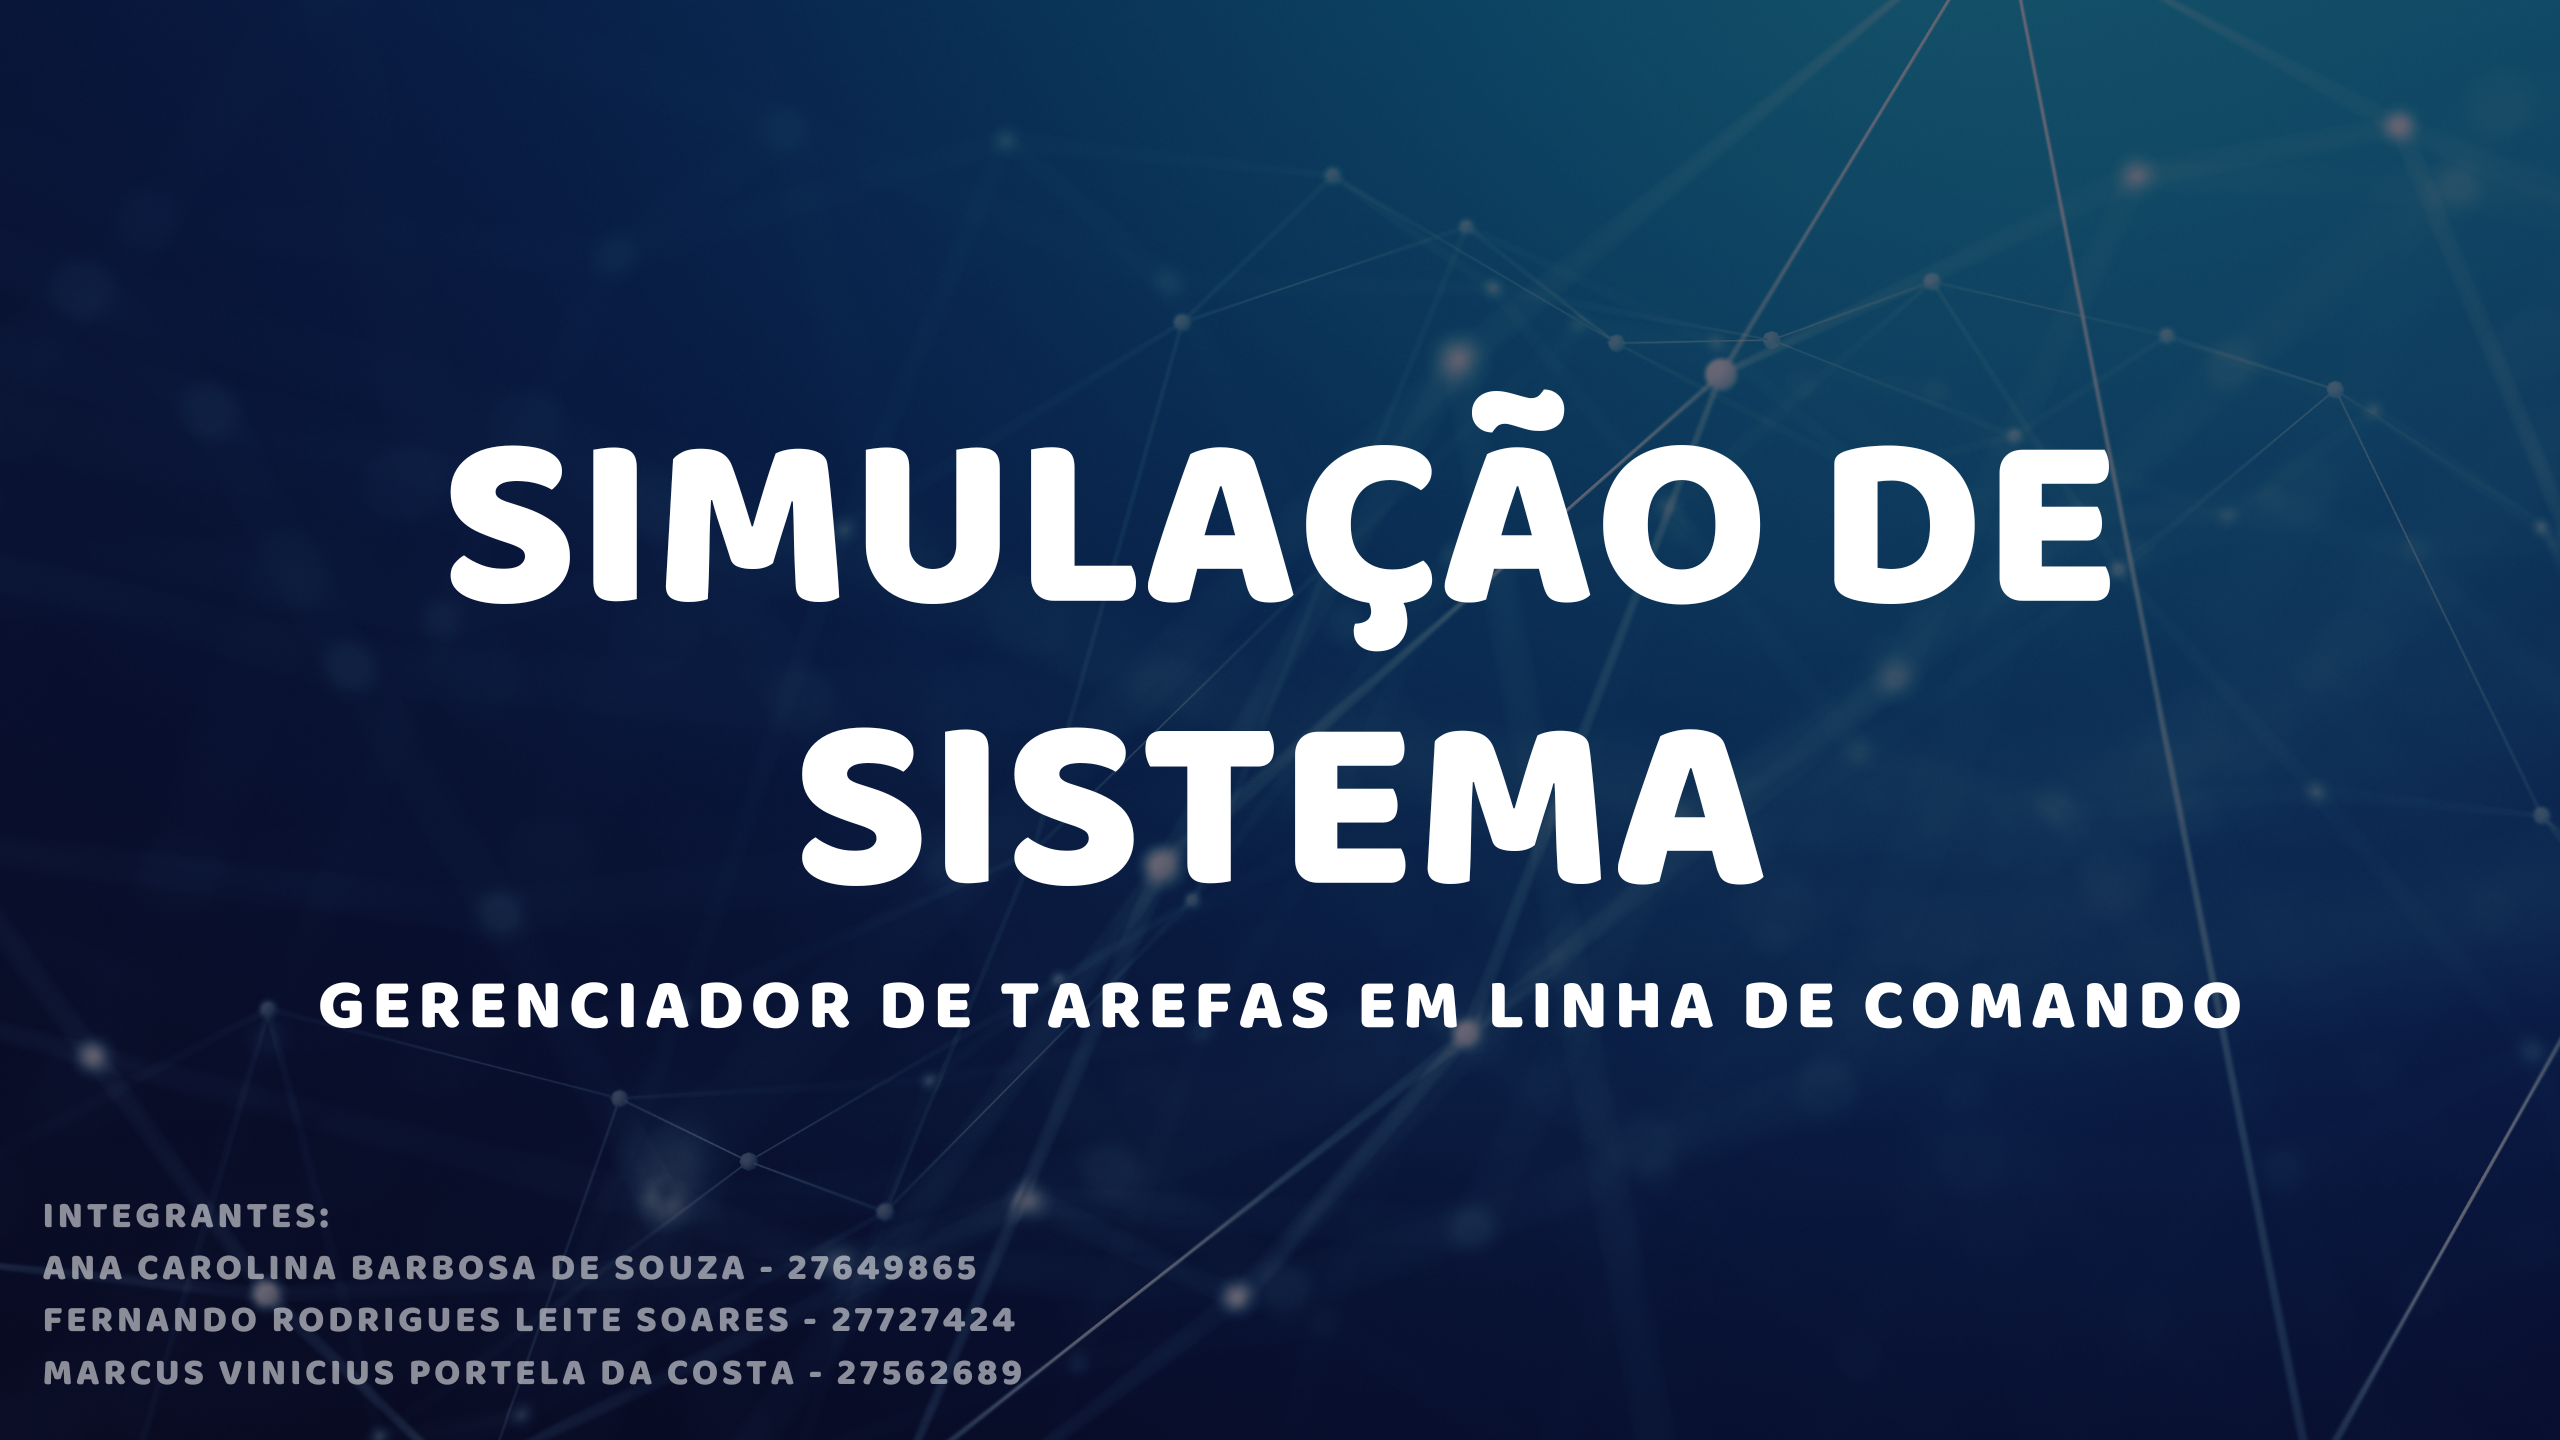
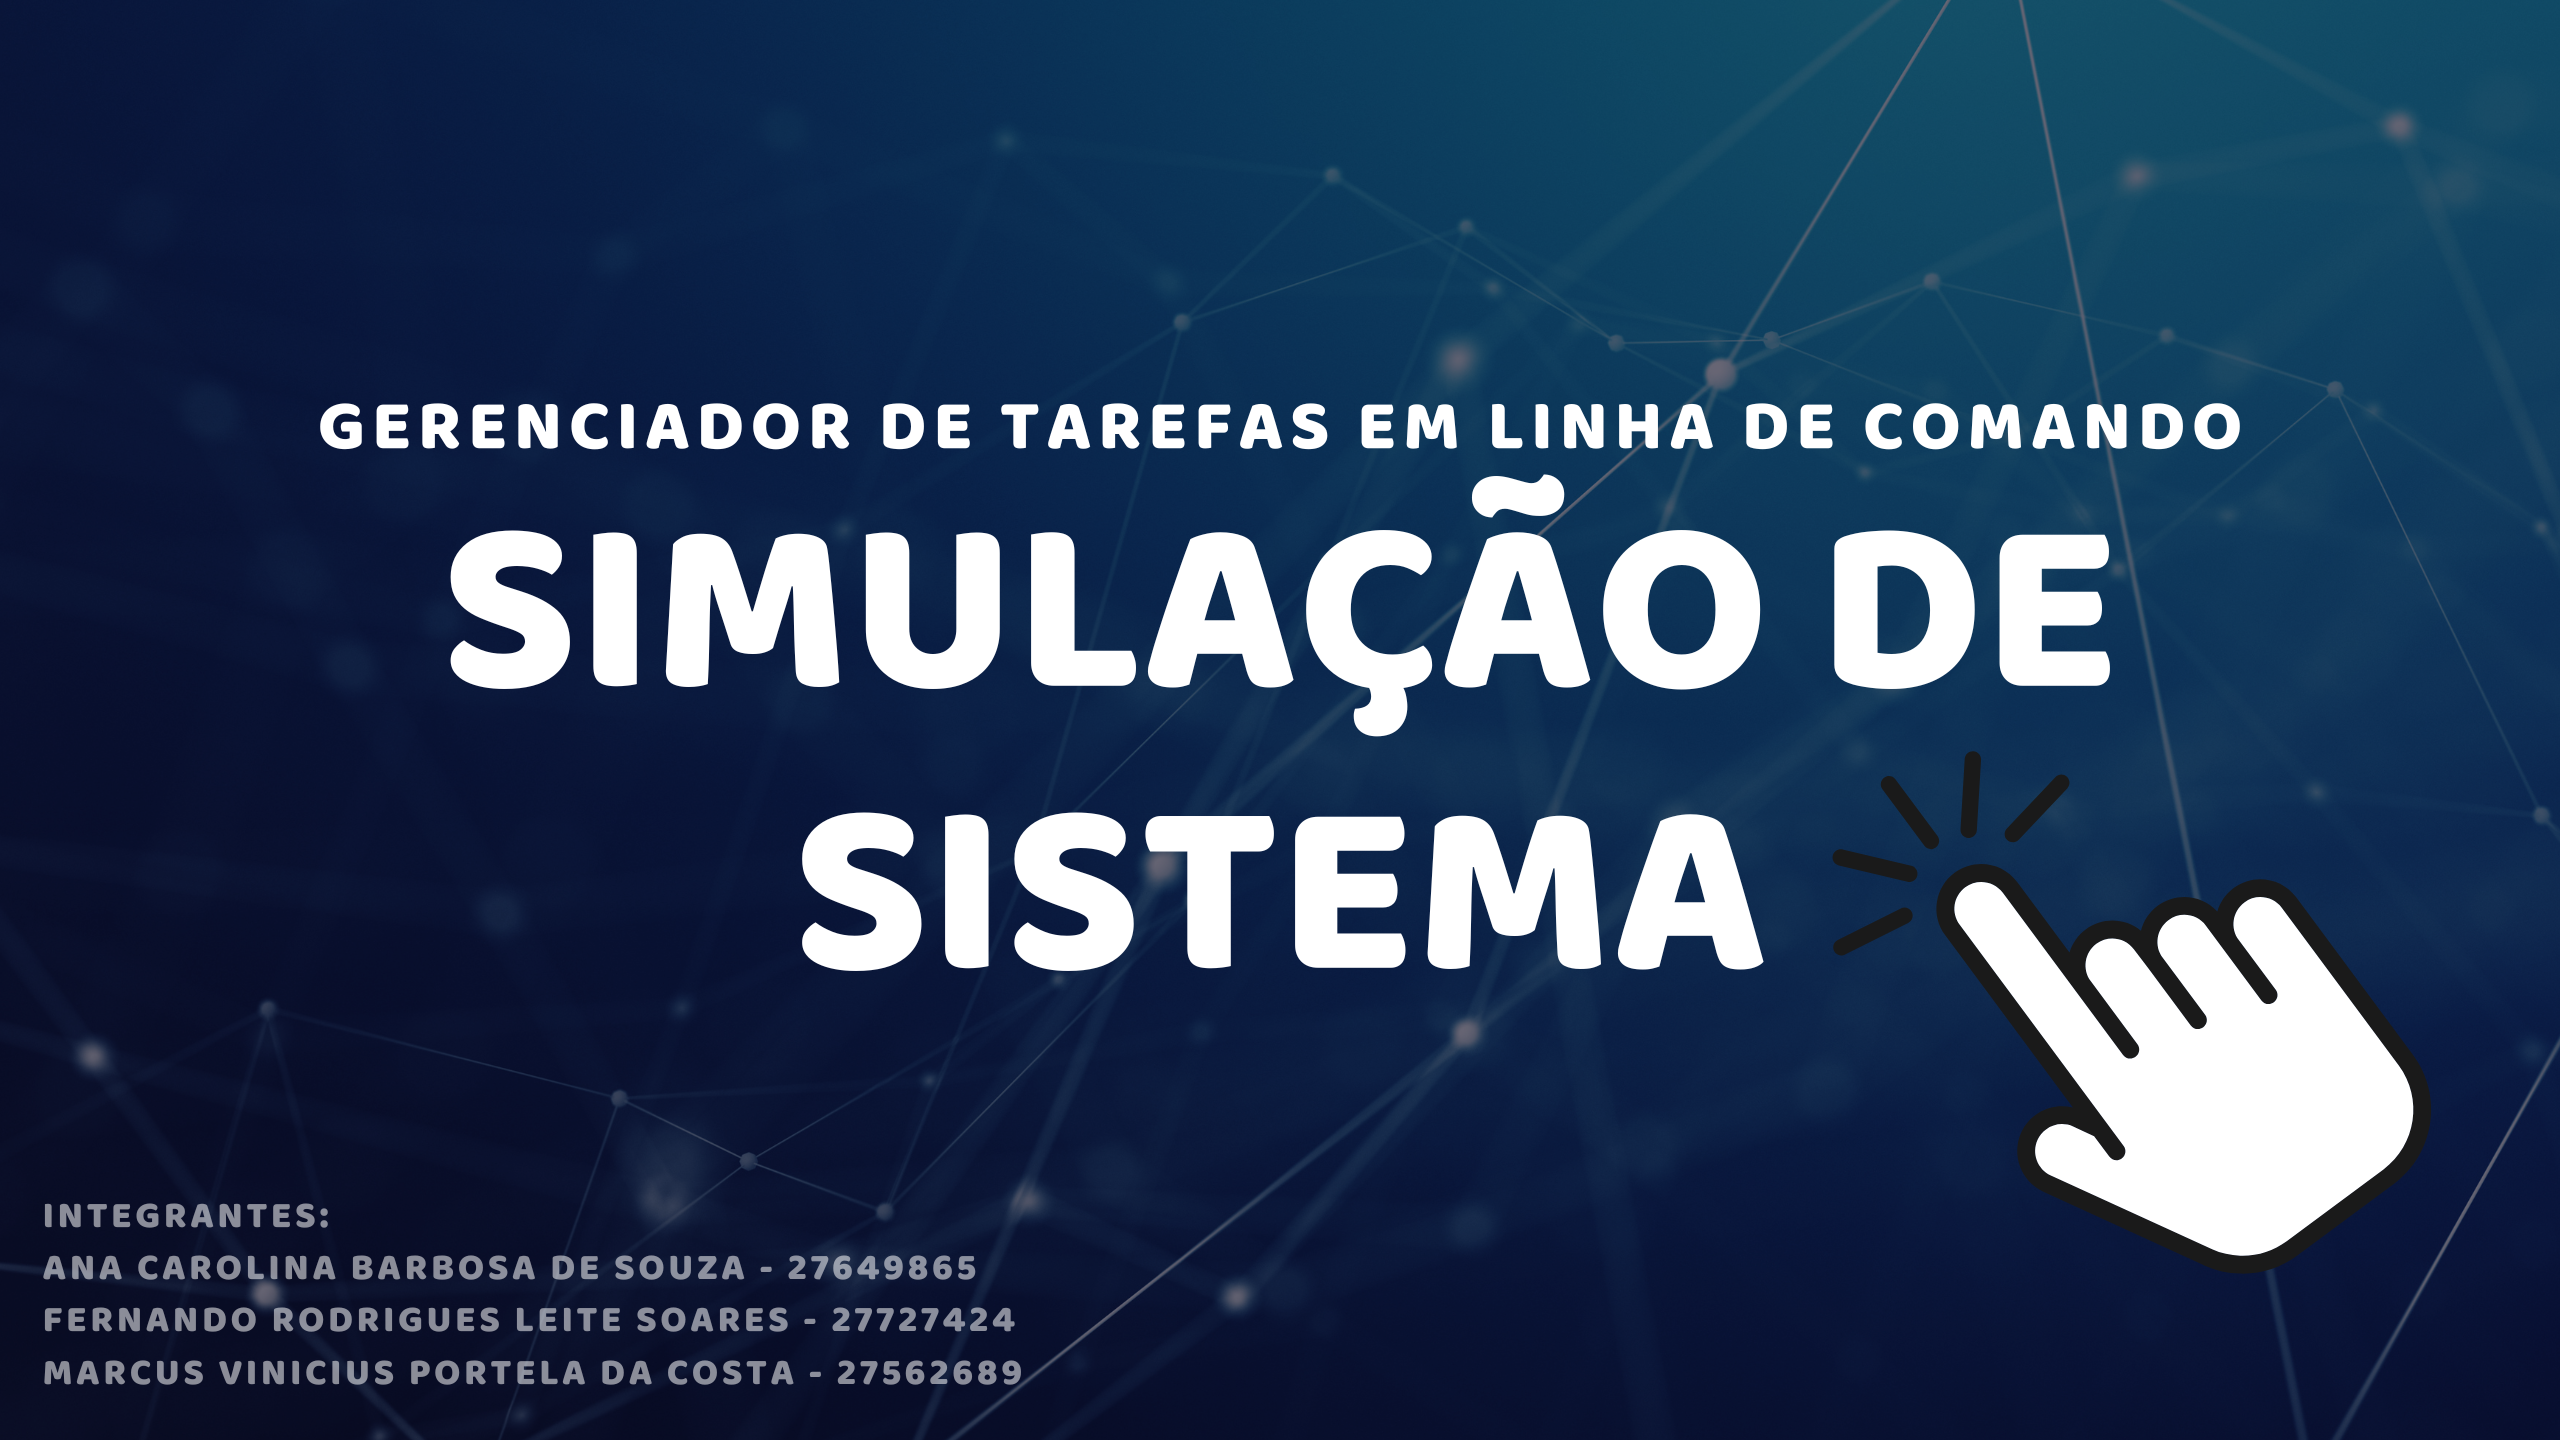
Mod video e test html

Changed region(s): [[0.125, 0.25, 0.9688, 0.9062]]

diff --git a/Projeto-A1/README.md b/Projeto-A1/README.md
@@ -43,6 +43,10 @@ Este projeto foi desenvolvido por:
 
 ## 📽 Simulação do sistema
 
+<a href="https://drive.google.com/file/d/1DQ3-LJ5C_BU6OdRESrUM3NKWhb3uT1lx/view?usp=sharing">
+  <img src="tumbnail_simulacao.png" alt="Assista ao vídeo" width="400">
+</a>
+
 [![Assista ao vídeo](tumbnail_simulacao.png)](https://drive.google.com/file/d/1DQ3-LJ5C_BU6OdRESrUM3NKWhb3uT1lx/view?usp=sharing)
 
 Você também pode clonar este repositório e rodar o arquivo `tarefas.py` em seu terminal.
